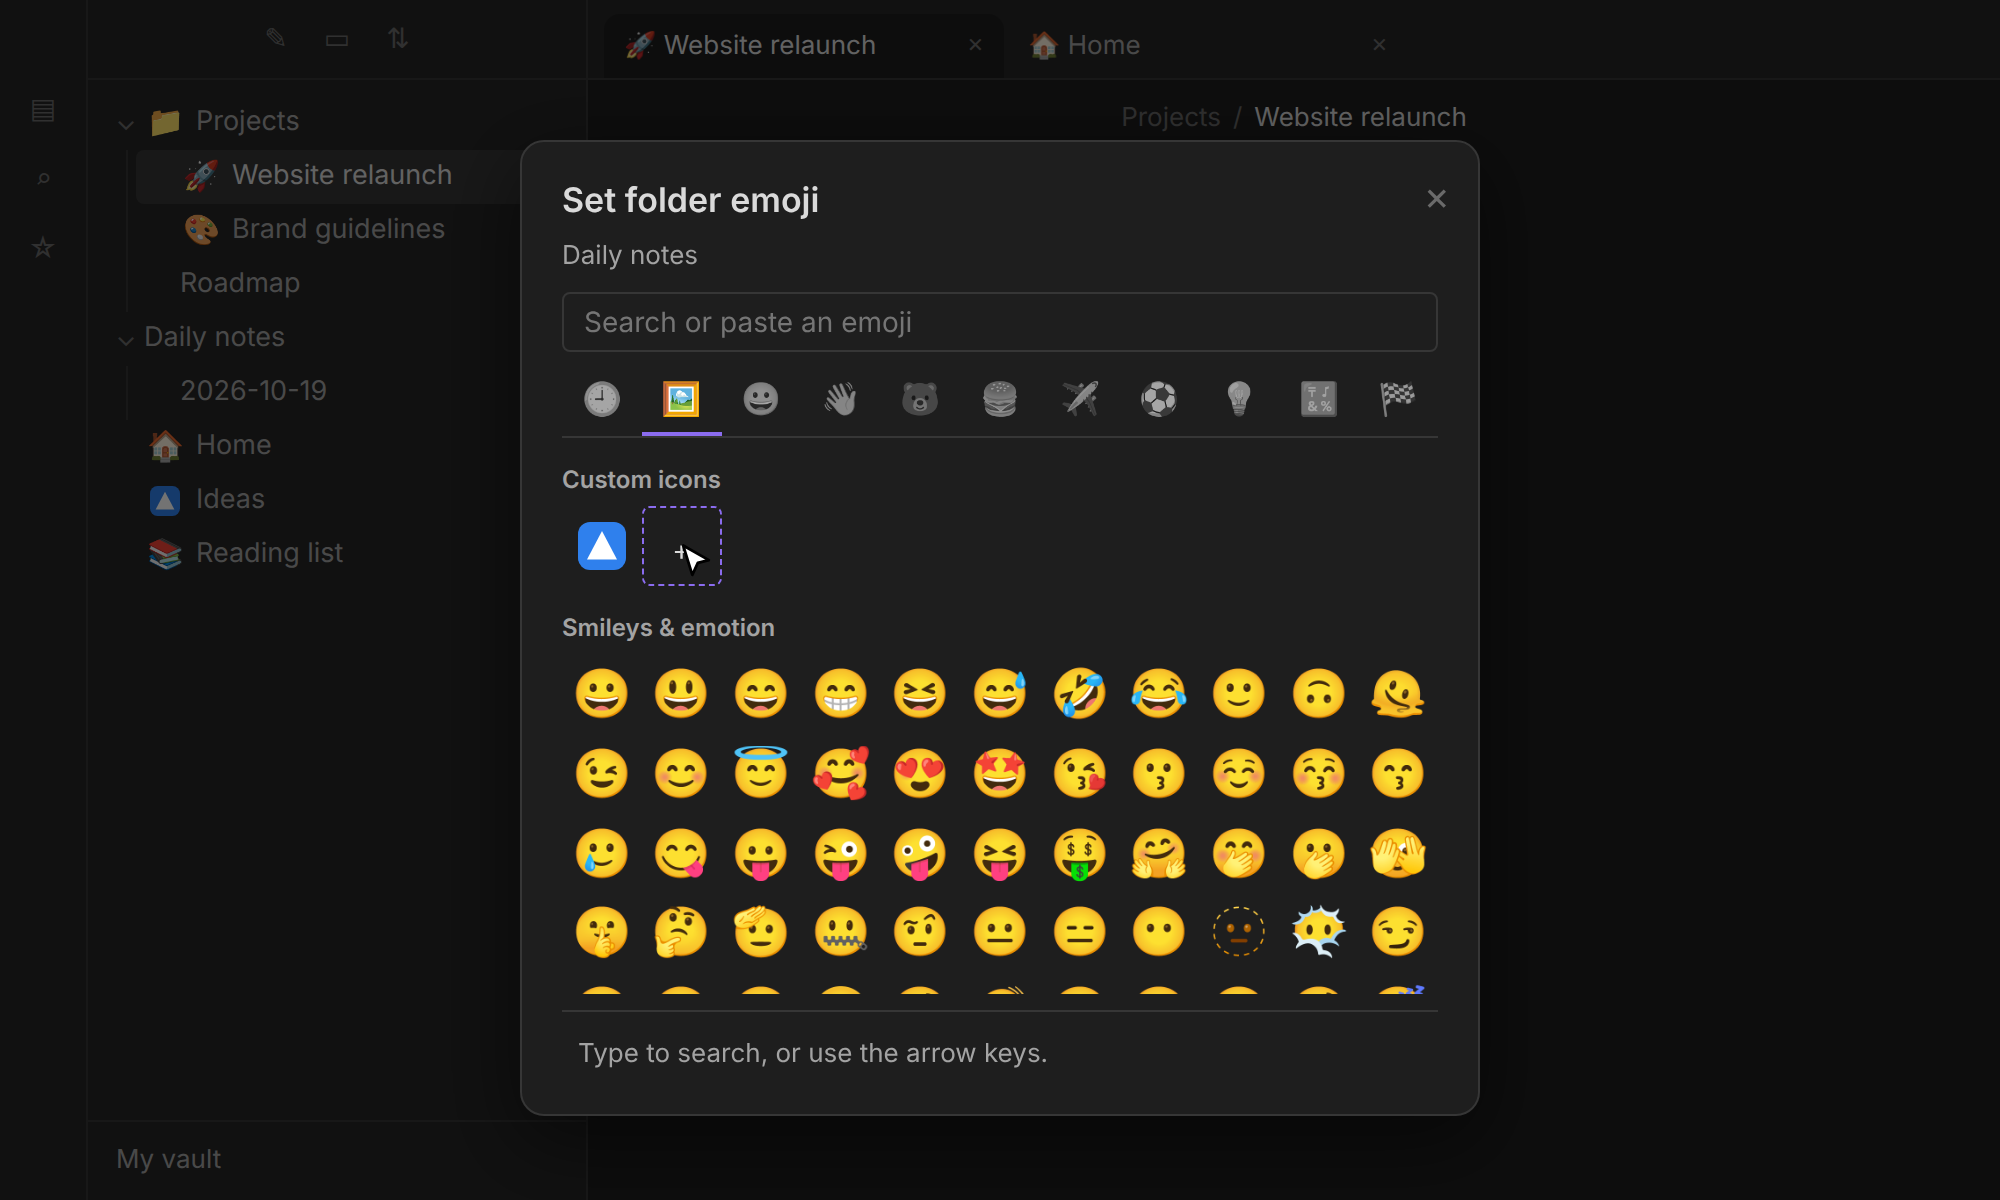
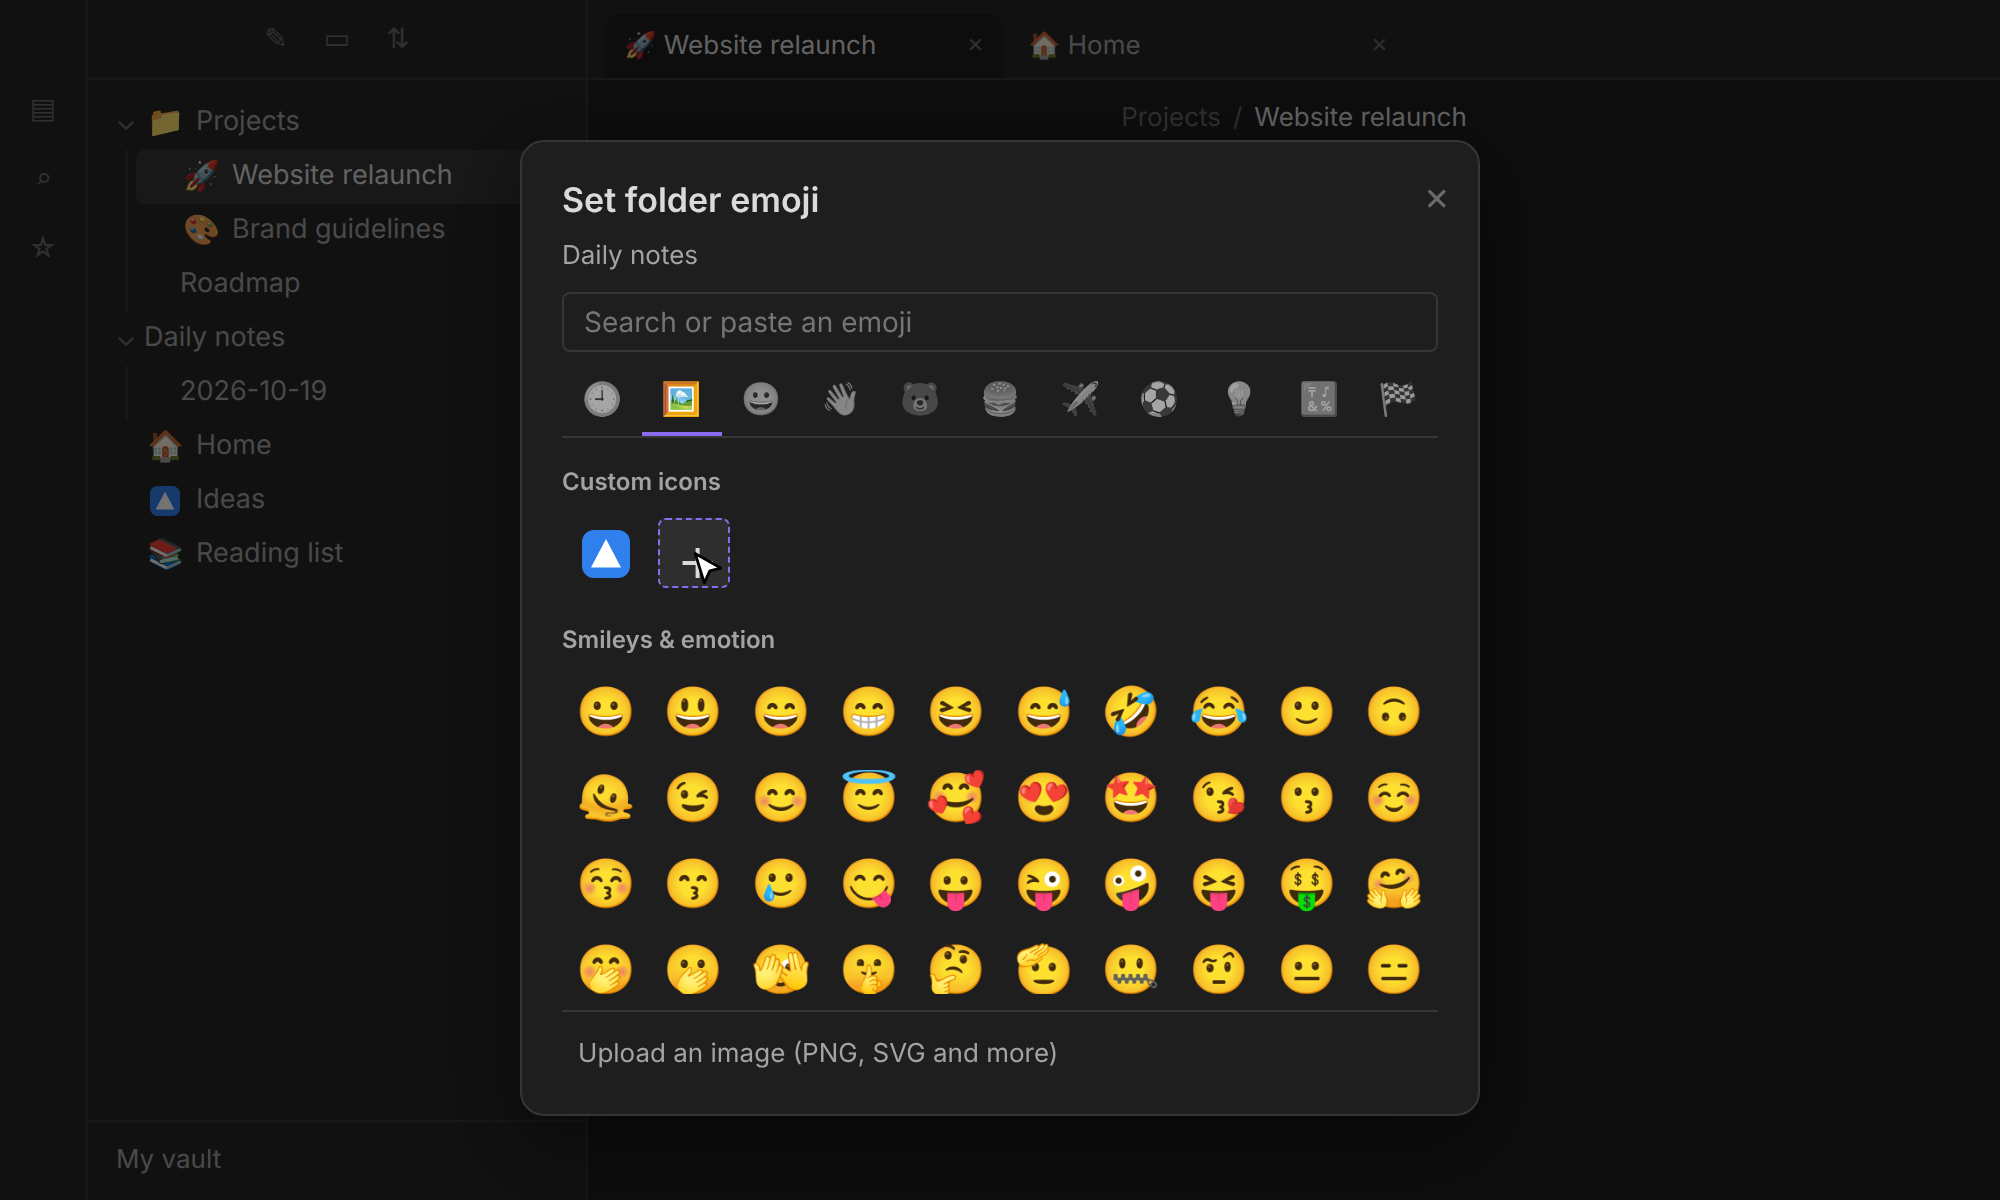
No tooltip on the upload tile; fix and re-record README media
- The upload tile is explained in the footer on hover, like every tile
- Demo recorder updated for the virtualized picker; media re-recorded

Changed region(s): [[0.279, 0.37, 0.713, 0.8325], [0.279, 0.8633, 0.527, 0.8942]]

diff --git a/tests/picker/picker-modal.test.ts b/tests/picker/picker-modal.test.ts
@@ -115,10 +115,11 @@ describe("browsing", () => {
 		expect(picker.tile("🏁")).toBeUndefined();
 	});
 
-	it("labels no emoji tile, so Obsidian shows no tooltips while hovering", async () => {
+	it("labels no tile, so Obsidian shows no tooltips while hovering", async () => {
 		const picker = await open();
-		const labelled = picker.tiles().filter((el) => el.hasAttribute("aria-label"));
-		expect(labelled.map((el) => el.hasClass("is-upload"))).toEqual([true]);
+		expect(picker.tiles().filter((el) => el.hasAttribute("aria-label"))).toEqual([]);
+		picker.query(".is-upload")!.dispatchEvent(new MouseEvent("mouseover", { bubbles: true }));
+		expect(picker.footer()).toBe("Upload an image (PNG, SVG and more)");
 	});
 
 	it("lists recently used icons first, with their own tab", async () => {

diff --git a/src/picker/picker-modal.ts b/src/picker/picker-modal.ts
@@ -303,9 +303,8 @@ export class PickerModal extends Modal {
 		} else if (item.kind === "custom") {
 			renderIcon(tileEl, item.value, this.customUrl);
 		} else {
+			// Explained in the footer on hover, like every tile (no tooltip).
 			tileEl.addClass("is-upload");
-			// The one labelled tile: its icon alone does not say what it does.
-			tileEl.setAttr("aria-label", item.name);
 			setIcon(tileEl, "image-plus");
 		}
 	}
